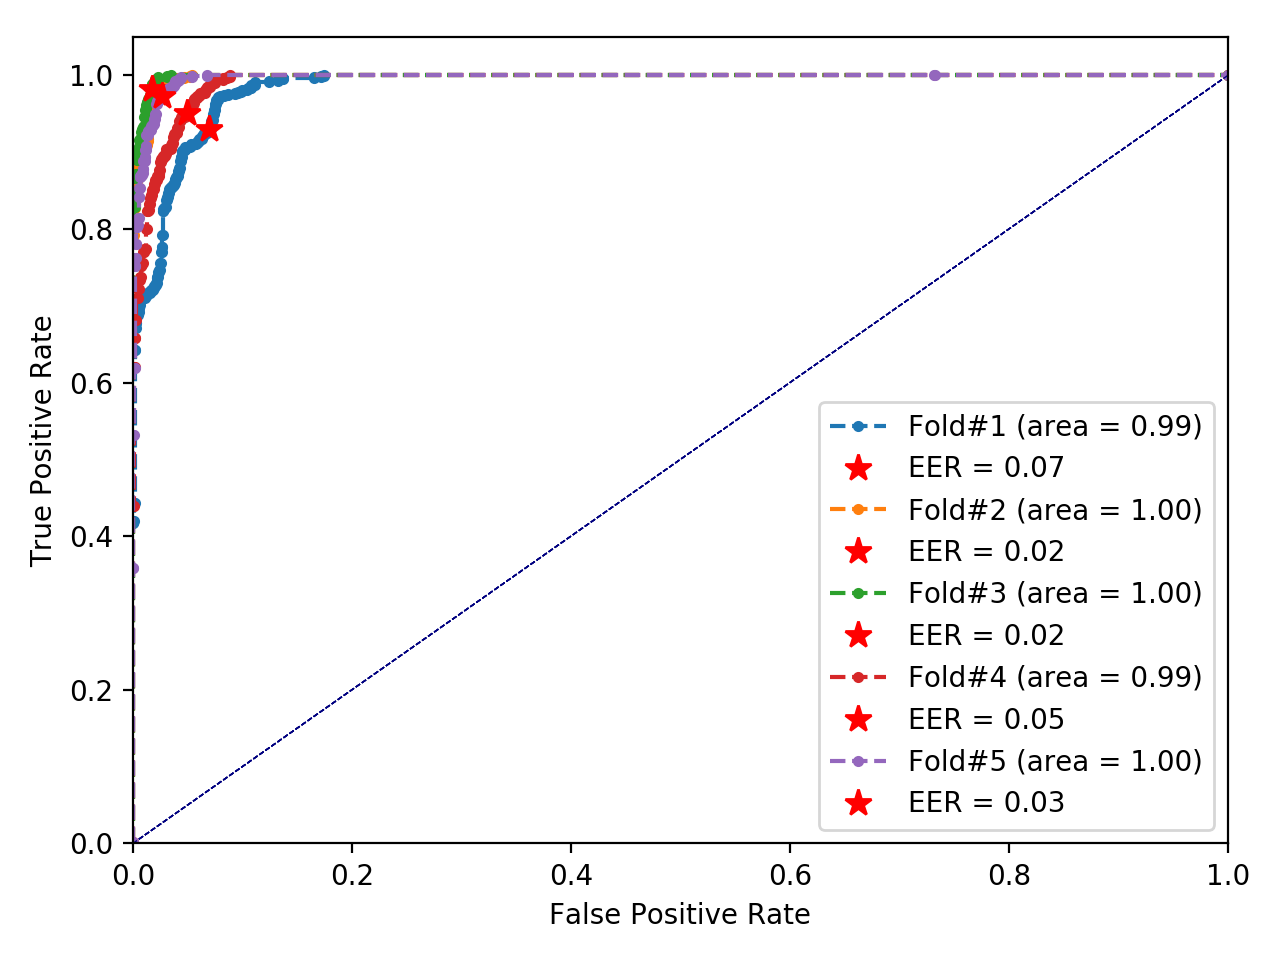
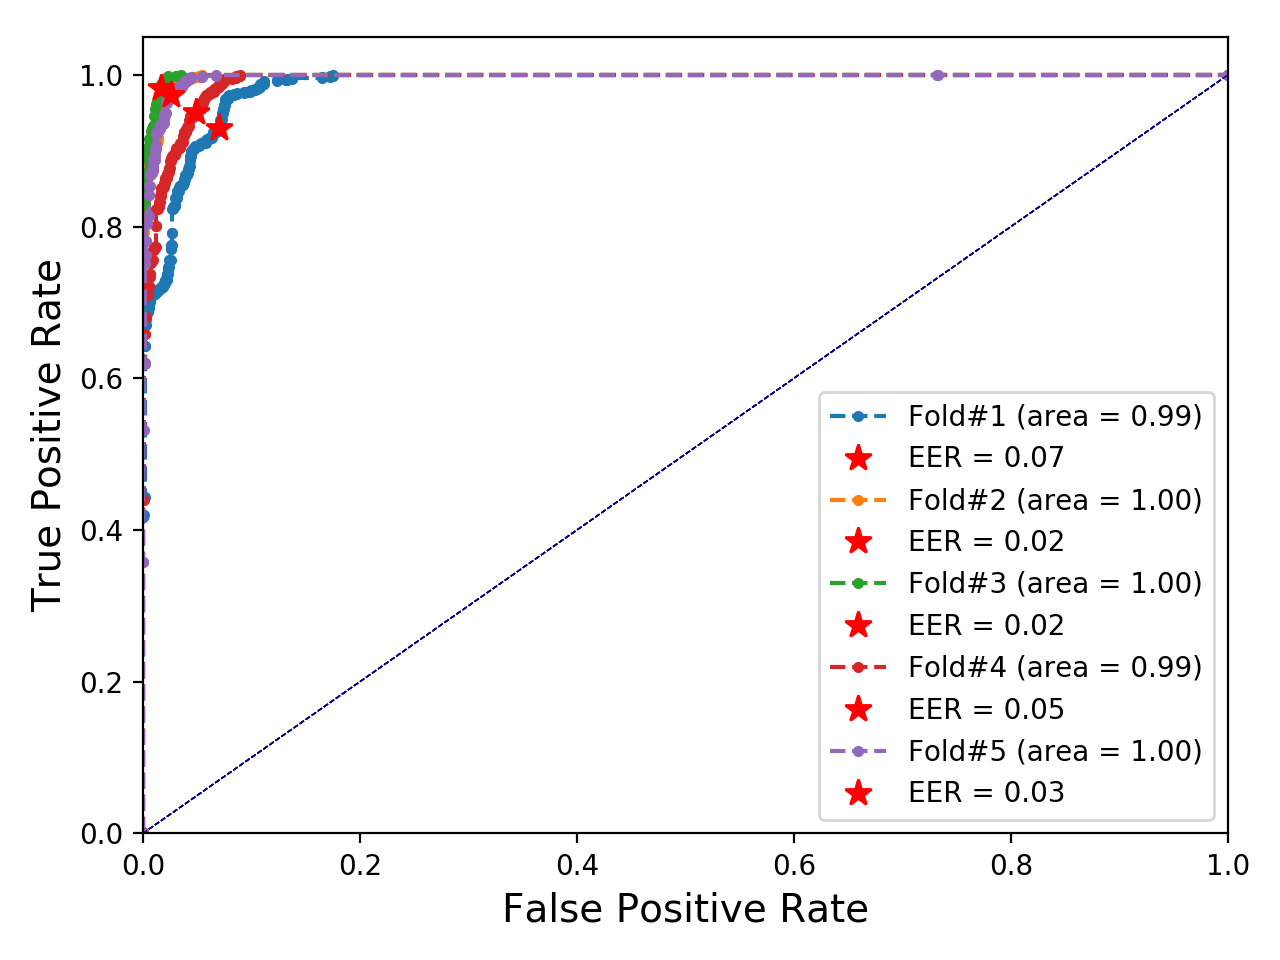
fixed font size

diff --git a/mfom/score_analysis.py b/mfom/score_analysis.py
@@ -109,6 +109,7 @@ def plot_rocch_fnr_fpr(y_true, y_score):
     ax = fig.add_subplot(1, 1, 1, frameon=True)
     mfom_plt.view_fnr_fpr_dist(ax, fnr, fpr, thresholds, eer_val)
     fig.tight_layout()
+    fig.savefig('./misc/fnr_fpr_distr.png', dpi=200)
     plt.show()
 
 
@@ -271,7 +272,7 @@ def mfom_smooth(y_true, y_score, alpha, beta):
 
 
 if __name__ == "__main__":
-    debug = True
+    debug = False
     # TODO REFACTORRRRR!!!!
     # P_df = toy_sc.arr2DataFrame(toy_sc.p_test)
     # Y_df = toy_sc.arr2DataFrame(toy_sc.y_test)
@@ -287,15 +288,16 @@ if __name__ == "__main__":
     for i in range(1, 6):
         P_df = mfom_dcase.read_dcase('data/test_scores/results_fold%d.txt' % i)
         Y_df = mfom_dcase.read_dcase('data/test_scores/y_true_fold%d.txt' % i)
-        # loss_scores = mfom_cost._uvz_loss_scores(y_true=Y_df.values, y_pred=P_df.values, alpha=3.)
-        # ls_df = toy_sc.arr2DataFrame(1. - loss_scores, row_id=P_df.index, col_id=P_df.columns)
+        loss_scores = mfom_cost._uvz_loss_scores(y_true=Y_df.values, y_pred=P_df.values, alpha=3.)
+        ls_df = toy_sc.arr2DataFrame(1. - loss_scores, row_id=P_df.index, col_id=P_df.columns)
         # loss_scores = mfom_cost._uvz_loss_scores(y_true=Y_df.values, y_pred=ls_df.values, alpha=3.)
         # ls_df = toy_sc.arr2DataFrame(1. - loss_scores, row_id=P_df.index, col_id=P_df.columns)
         # ===
         # ROC curves
         # ===
         # pooled scores
-        y_score, y_true = toy_sc.pool_scores(p_df=P_df, y_df=Y_df)
+        # y_score, y_true = toy_sc.pool_scores(p_df=P_df, y_df=Y_df)
+        y_score, y_true = toy_sc.pool_scores(p_df=ls_df, y_df=Y_df)
         # calculate ROC
         fpr, tpr, thresholds = sk_metrics.roc_curve(y_true, y_score, drop_intermediate=True)
         roc_auc = sk_metrics.auc(fpr, tpr)
@@ -304,7 +306,7 @@ if __name__ == "__main__":
         ax = fig.add_subplot(1, 1, 1, frameon=True)
         mfom_plt.view_roc_curve(ax, fpr, tpr, roc_auc=roc_auc, eer_val=eer_val, label='Fold#%d (area = %0.2f)' % (i, roc_auc))
     fig.tight_layout()
-    fig.savefig('./misc/roc_sigmoid.png', dpi=200)
+    fig.savefig('./misc/roc_mfom.png', dpi=200)
     plt.show()
 
 

diff --git a/mfom/visual/plotter.py b/mfom/visual/plotter.py
@@ -59,8 +59,8 @@ def view_roc_curve(ax, fpr, tpr, label=None, eer_val=None, roc_auc=None, color=N
 
     ax.set_xlim([0.0, 1.0])
     ax.set_ylim([0.0, 1.05])
-    ax.set_xlabel('False Positive Rate')
-    ax.set_ylabel('True Positive Rate')
+    ax.set_xlabel('False Positive Rate', fontdict=plts.label_font)
+    ax.set_ylabel('True Positive Rate', fontdict=plts.label_font)
     ax.set_title(title)
     ax.legend(loc="best")
     return ax
@@ -74,9 +74,9 @@ def view_fnr_fpr_dist(ax, fnr, fpr, thresholds, eer_val):
     ax.plot(thresholds, np.abs(fnr + fpr), marker='.', linestyle=':', alpha=0.8, lw=lw, label='FNR + FPR')
 
     id_x = np.argmin(np.abs(fnr - fpr))
-    ax.plot(thresholds[id_x], eer_val, linestyle=' ', marker='*', markersize=10, label='EER = %0.2f' % eer_val, color='red')
-    ax.set_xlabel('Thresholds')
-    ax.set_ylabel('Error rate')
+    ax.plot(thresholds[id_x], eer_val, linestyle=' ', marker='*', markersize=15, label='EER = %0.2f' % eer_val, color='red')
+    ax.set_xlabel('Thresholds', fontdict=plts.label_font)
+    ax.set_ylabel('Error rate', fontdict=plts.label_font)
     ax.legend(loc='best')
     return ax
 

diff --git a/mfom/visual/plot_styles.py b/mfom/visual/plot_styles.py
@@ -3,13 +3,13 @@ ticks_font = {
     'family': 'sans-serif',  # (cursive, fantasy, monospace, serif)
     'color': 'black',  # html hex or colour name
     'weight': 'normal',  # (normal, bold, bolder, lighter)
-    'size': 5,  # default value:12
+    'size': 7,  # default value:12
 }
 label_font = {
     'family': 'sans-serif',  # (cursive, fantasy, monospace, serif)
     'color': 'black',  # html hex or colour name
     'weight': 'normal',  # (normal, bold, bolder, lighter)
-    'size': 12,  # default value:12
+    'size': 14,  # default value:12
 }
 title_font = {
     'family': 'serif',
